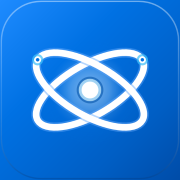
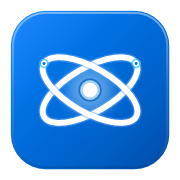
Add files via upload

diff --git a/public/app.js b/public/app.js
@@ -1632,11 +1632,28 @@ elements.studentEditForm.addEventListener('submit', async e => {
 });
 
 // ==========================================================
-// 12. VIEWS, TABS & DRAWER NAVIGATION CONTROL
+// 12. VIEWS, TABS & DRAWER NAVIGATION CONTROL (WITH MOBILE BACK BUTTON SUPPORT)
 // ==========================================================
-function switchView(viewName) {
+let isClosingModalProgrammatically = false;
+
+function switchView(viewName, pushHistory = true) {
+  const previousView = state.activeView;
   state.activeView = viewName;
   const isDashboard = viewName === 'dashboard';
+
+  if (pushHistory) {
+    try {
+      if (isDashboard) {
+        window.history.replaceState({ view: 'dashboard' }, '', window.location.pathname);
+      } else {
+        if (previousView === 'dashboard') {
+          window.history.pushState({ view: viewName }, '', '#' + viewName);
+        } else {
+          window.history.replaceState({ view: viewName }, '', '#' + viewName);
+        }
+      }
+    } catch (_) {}
+  }
 
   if (elements.welcomeBannerSection) elements.welcomeBannerSection.style.display = isDashboard ? '' : 'none';
   if (elements.statsGridSection) elements.statsGridSection.style.display = isDashboard ? '' : 'none';
@@ -1653,17 +1670,38 @@ function switchView(viewName) {
     return;
   }
 
-  if (viewName === 'pending-fees') switchTab('tab-pending-fees');
-  else if (viewName === 'batches') switchTab('tab-batches');
-  else if (viewName === 'students') switchTab('tab-students');
-  else if (viewName === 'attendance') switchTab('tab-attendance');
-  else if (viewName === 'activity-log') switchTab('tab-activity-log');
+  if (viewName === 'pending-fees') switchTab('tab-pending-fees', false);
+  else if (viewName === 'batches') switchTab('tab-batches', false);
+  else if (viewName === 'students') switchTab('tab-students', false);
+  else if (viewName === 'attendance') switchTab('tab-attendance', false);
+  else if (viewName === 'activity-log') switchTab('tab-activity-log', false);
 
   window.scrollTo({ top: 0, behavior: 'smooth' });
 }
 
-function switchTab(tabId) {
+function switchTab(tabId, pushHistory = true) {
   state.activeTab = tabId;
+  const tabViewMap = {
+    'tab-pending-fees': 'pending-fees',
+    'tab-batches': 'batches',
+    'tab-students': 'students',
+    'tab-attendance': 'attendance',
+    'tab-activity-log': 'activity-log'
+  };
+  const viewName = tabViewMap[tabId] || 'dashboard';
+
+  if (pushHistory && state.activeView !== viewName) {
+    const prevView = state.activeView;
+    state.activeView = viewName;
+    try {
+      if (prevView === 'dashboard') {
+        window.history.pushState({ view: viewName }, '', '#' + viewName);
+      } else {
+        window.history.replaceState({ view: viewName }, '', '#' + viewName);
+      }
+    } catch (_) {}
+  }
+
   if (elements.tabButtons && elements.tabButtons.length > 0) {
     elements.tabButtons.forEach(btn => {
       btn.classList.toggle('active', btn.getAttribute('data-tab') === tabId);
@@ -1711,7 +1749,13 @@ elements.tabButtons.forEach(btn => {
 });
 
 if (elements.btnBackToHome) {
-  elements.btnBackToHome.addEventListener('click', () => switchView('dashboard'));
+  elements.btnBackToHome.addEventListener('click', () => {
+    if (window.history.state && window.history.state.view && window.history.state.view !== 'dashboard') {
+      window.history.back();
+    } else {
+      switchView('dashboard');
+    }
+  });
 }
 
 if (elements.hintOpenDrawerBtn) {
@@ -1736,8 +1780,21 @@ elements.tabInlineSearchInput.addEventListener('input', () => {
 
 // Drawer Navigation
 function toggleDrawer(open) {
-  elements.navDrawer.classList.toggle('open', open);
-  elements.drawerOverlay.classList.toggle('open', open);
+  const isOpen = elements.navDrawer.classList.contains('open');
+  if (open && !isOpen) {
+    elements.navDrawer.classList.add('open');
+    elements.drawerOverlay.classList.add('open');
+    try {
+      window.history.pushState({ drawer: true, view: state.activeView }, '', '#drawer');
+    } catch (_) {}
+  } else if (!open && isOpen) {
+    elements.navDrawer.classList.remove('open');
+    elements.drawerOverlay.classList.remove('open');
+    if (window.history.state && window.history.state.drawer) {
+      isClosingModalProgrammatically = true;
+      try { window.history.back(); } catch (_) {}
+    }
+  }
 }
 
 elements.menuToggleBtn.addEventListener('click', () => toggleDrawer(true));
@@ -1953,12 +2010,23 @@ elements.nextPageBtn.addEventListener('click', () => {
 // ==========================================================
 function openModal(modalId) {
   const modal = document.getElementById(modalId);
-  if (modal) modal.classList.add('open');
+  if (modal) {
+    modal.classList.add('open');
+    try {
+      window.history.pushState({ modal: modalId, view: state.activeView }, '', '#modal-' + modalId);
+    } catch (_) {}
+  }
 }
 
 function closeModal(modalId) {
   const modal = document.getElementById(modalId);
-  if (modal) modal.classList.remove('open');
+  if (modal) {
+    modal.classList.remove('open');
+    if (window.history.state && window.history.state.modal === modalId) {
+      isClosingModalProgrammatically = true;
+      try { window.history.back(); } catch (_) {}
+    }
+  }
 }
 
 document.querySelectorAll('[data-close-modal]').forEach(btn => {
@@ -1967,8 +2035,42 @@ document.querySelectorAll('[data-close-modal]').forEach(btn => {
 
 document.querySelectorAll('.modal-backdrop').forEach(backdrop => {
   backdrop.addEventListener('click', e => {
-    if (e.target === backdrop) backdrop.classList.remove('open');
+    if (e.target === backdrop) closeModal(backdrop.id);
   });
+});
+
+// Hardware / Mobile Gesture Back Button Handler
+window.addEventListener('popstate', (e) => {
+  if (isClosingModalProgrammatically) {
+    isClosingModalProgrammatically = false;
+    return;
+  }
+
+  // 1. If any modal is currently open, phone back closes the modal first
+  const openModals = document.querySelectorAll('.modal-backdrop.open');
+  if (openModals.length > 0) {
+    openModals.forEach(m => m.classList.remove('open'));
+    return;
+  }
+
+  // 2. If navigation drawer is open, phone back closes drawer
+  if (elements.navDrawer && elements.navDrawer.classList.contains('open')) {
+    elements.navDrawer.classList.remove('open');
+    elements.drawerOverlay.classList.remove('open');
+    return;
+  }
+
+  // 3. Tab navigation: If user is on any other tab (Fees, Batches, Attendance, etc.), phone back returns to Home!
+  const targetView = (e.state && e.state.view) ? e.state.view : 'dashboard';
+
+  if (targetView === 'dashboard') {
+    if (state.activeView !== 'dashboard') {
+      switchView('dashboard', false);
+    }
+    // If user is already on dashboard, standard browser back takes over (exits app)
+  } else {
+    switchView(targetView, false);
+  }
 });
 
 async function apiFetch(endpoint, options = {}) {
@@ -2112,6 +2214,13 @@ function dismissSplashScreen(minDuration = 800) {
 window.addEventListener('DOMContentLoaded', async () => {
   localStorage.removeItem('ygt_device_mode');
   document.body.classList.remove('mobile-simulator-active');
+
+  // Initialize base history state for mobile Back button support
+  try {
+    if (!window.history.state || !window.history.state.view) {
+      window.history.replaceState({ view: 'dashboard' }, '', window.location.pathname);
+    }
+  } catch (_) {}
 
   initTheme();
   initSplashScreen();

diff --git a/public/index.html b/public/index.html
@@ -4,14 +4,14 @@
   <meta charset="UTF-8">
   <meta name="viewport" content="width=device-width, initial-scale=1.0, maximum-scale=1.0, user-scalable=no, viewport-fit=cover">
   <title>YGT Classes - Staff Database & Operations Suite</title>
-  <link rel="manifest" href="/manifest.json?v=3">
+  <link rel="manifest" href="/manifest.json?v=4">
   <meta name="theme-color" content="#F5F5F7">
   <meta name="mobile-web-app-capable" content="yes">
   <meta name="apple-mobile-web-app-status-bar-style" content="default">
-  <link rel="icon" type="image/svg+xml" href="/icon.svg?v=3">
-  <link rel="icon" type="image/png" sizes="192x192" href="/icon-192.png?v=3">
-  <link rel="icon" type="image/png" sizes="512x512" href="/icon-512.png?v=3">
-  <link rel="apple-touch-icon" href="/apple-touch-icon.png?v=3">
+  <link rel="icon" type="image/svg+xml" href="/icon.svg?v=4">
+  <link rel="icon" type="image/png" sizes="192x192" href="/icon-192.png?v=4">
+  <link rel="icon" type="image/png" sizes="512x512" href="/icon-512.png?v=4">
+  <link rel="apple-touch-icon" href="/apple-touch-icon.png?v=4">
 
   <!-- Early Theme Detection: Eliminates Dark/Light Cold-Start Flash -->
   <script>
@@ -1299,6 +1299,6 @@
   <div id="toastContainer" class="toast-container"></div>
 
   <!-- Main Application JavaScript -->
-  <script src="app.js?v=2.2"></script>
+  <script src="app.js?v=2.3"></script>
 </body>
 </html>
